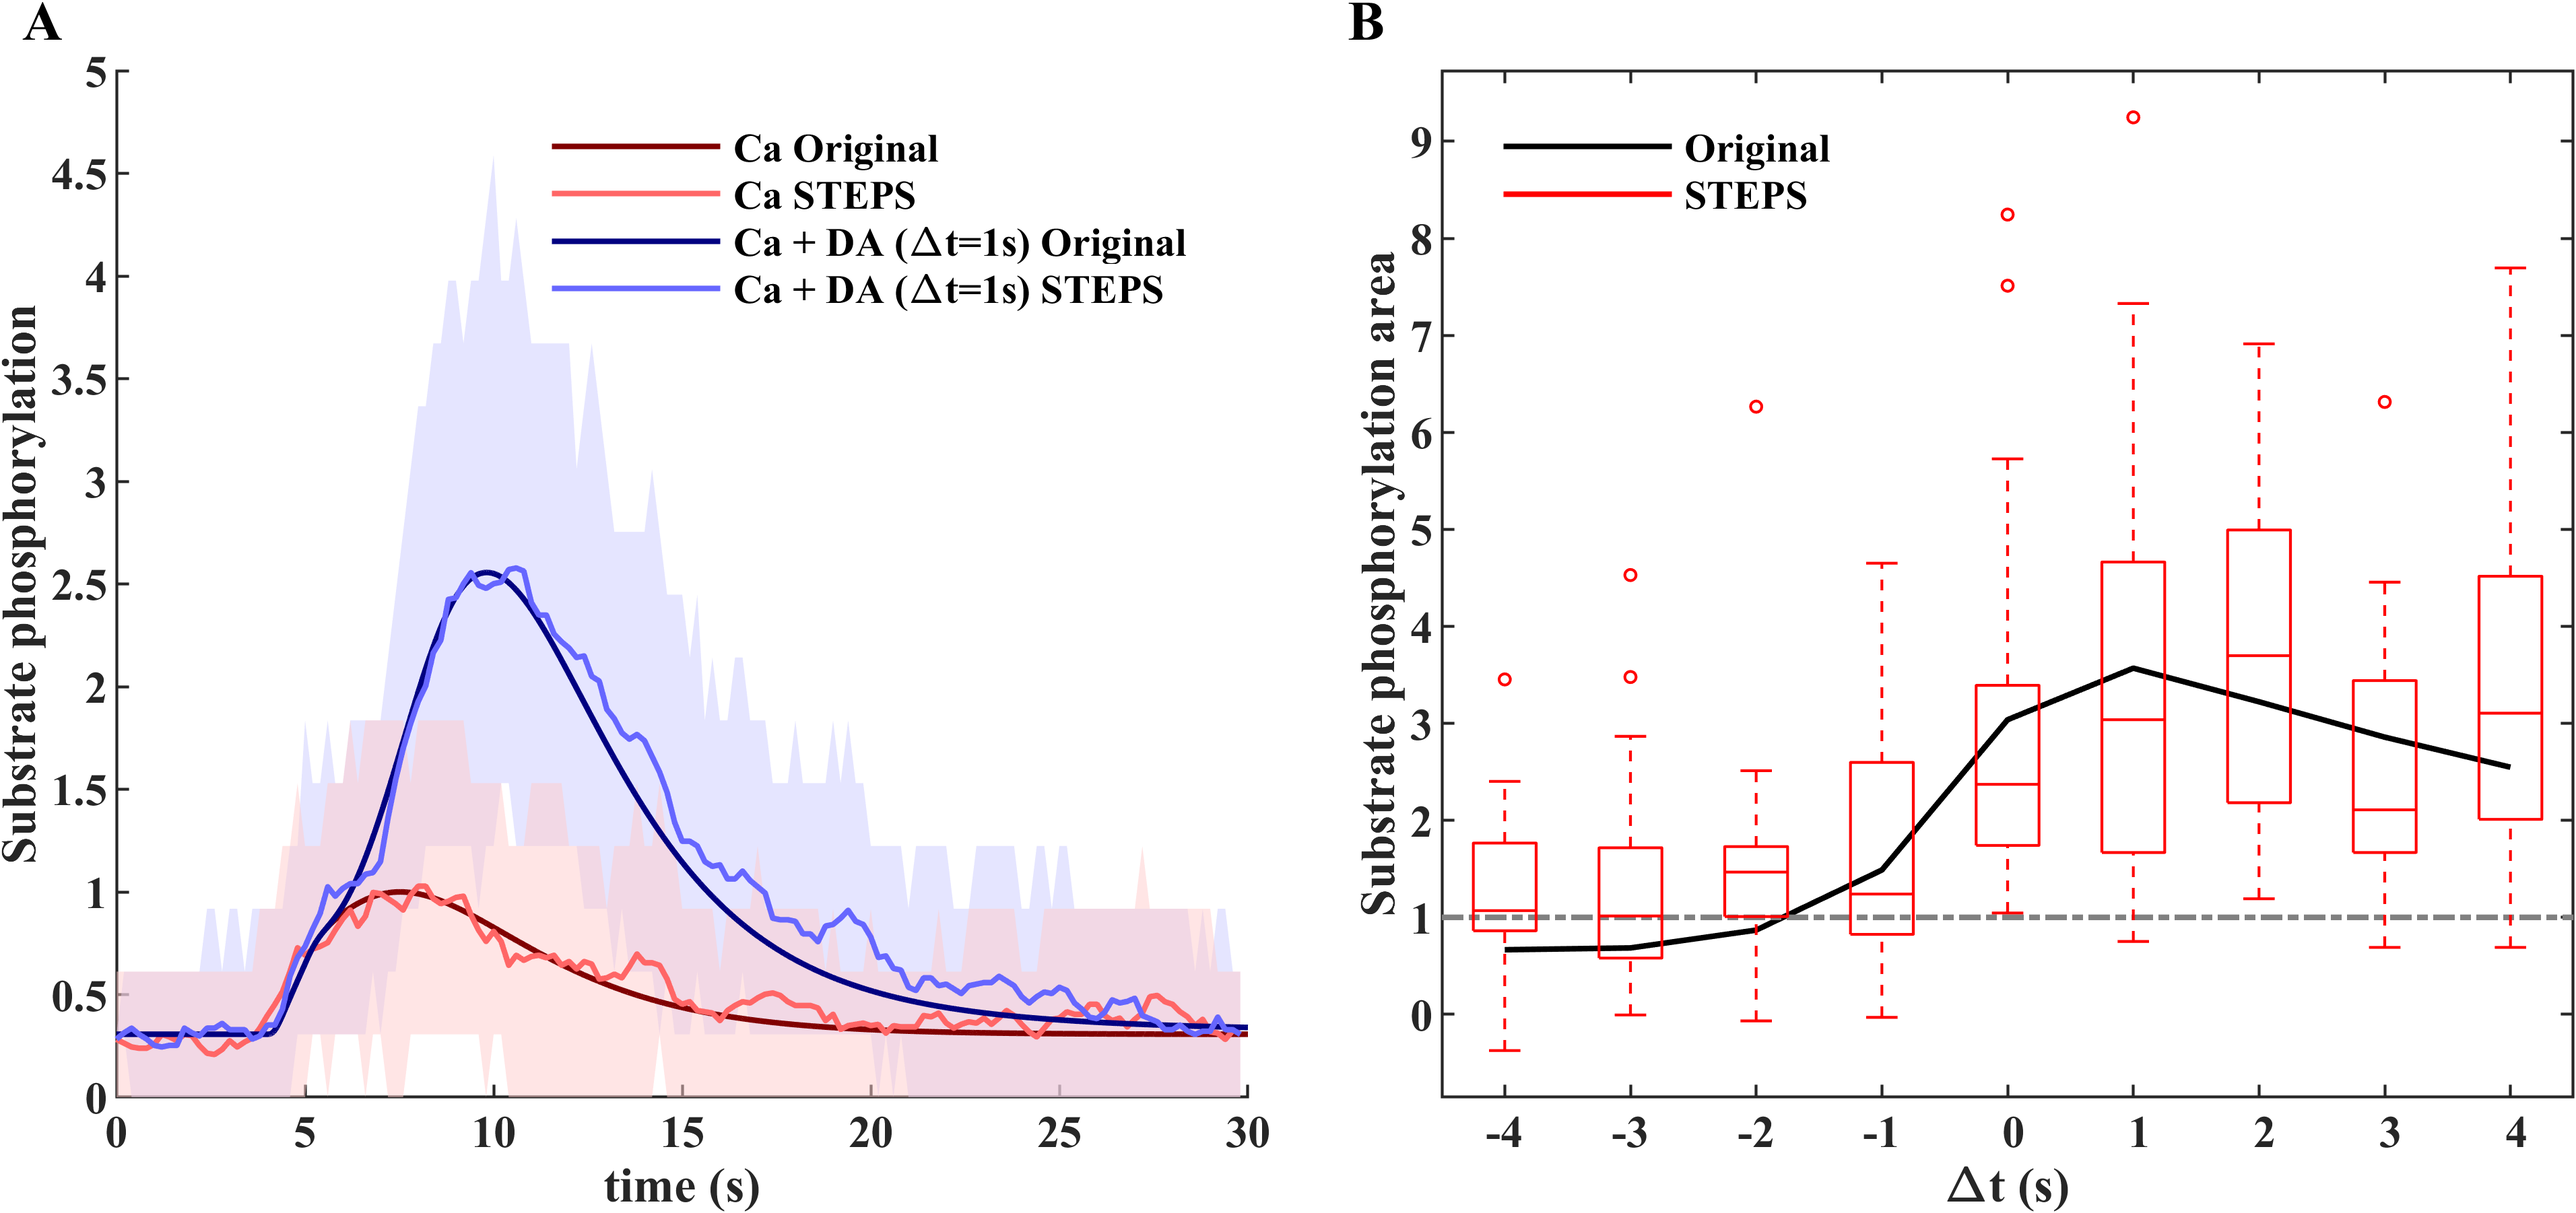
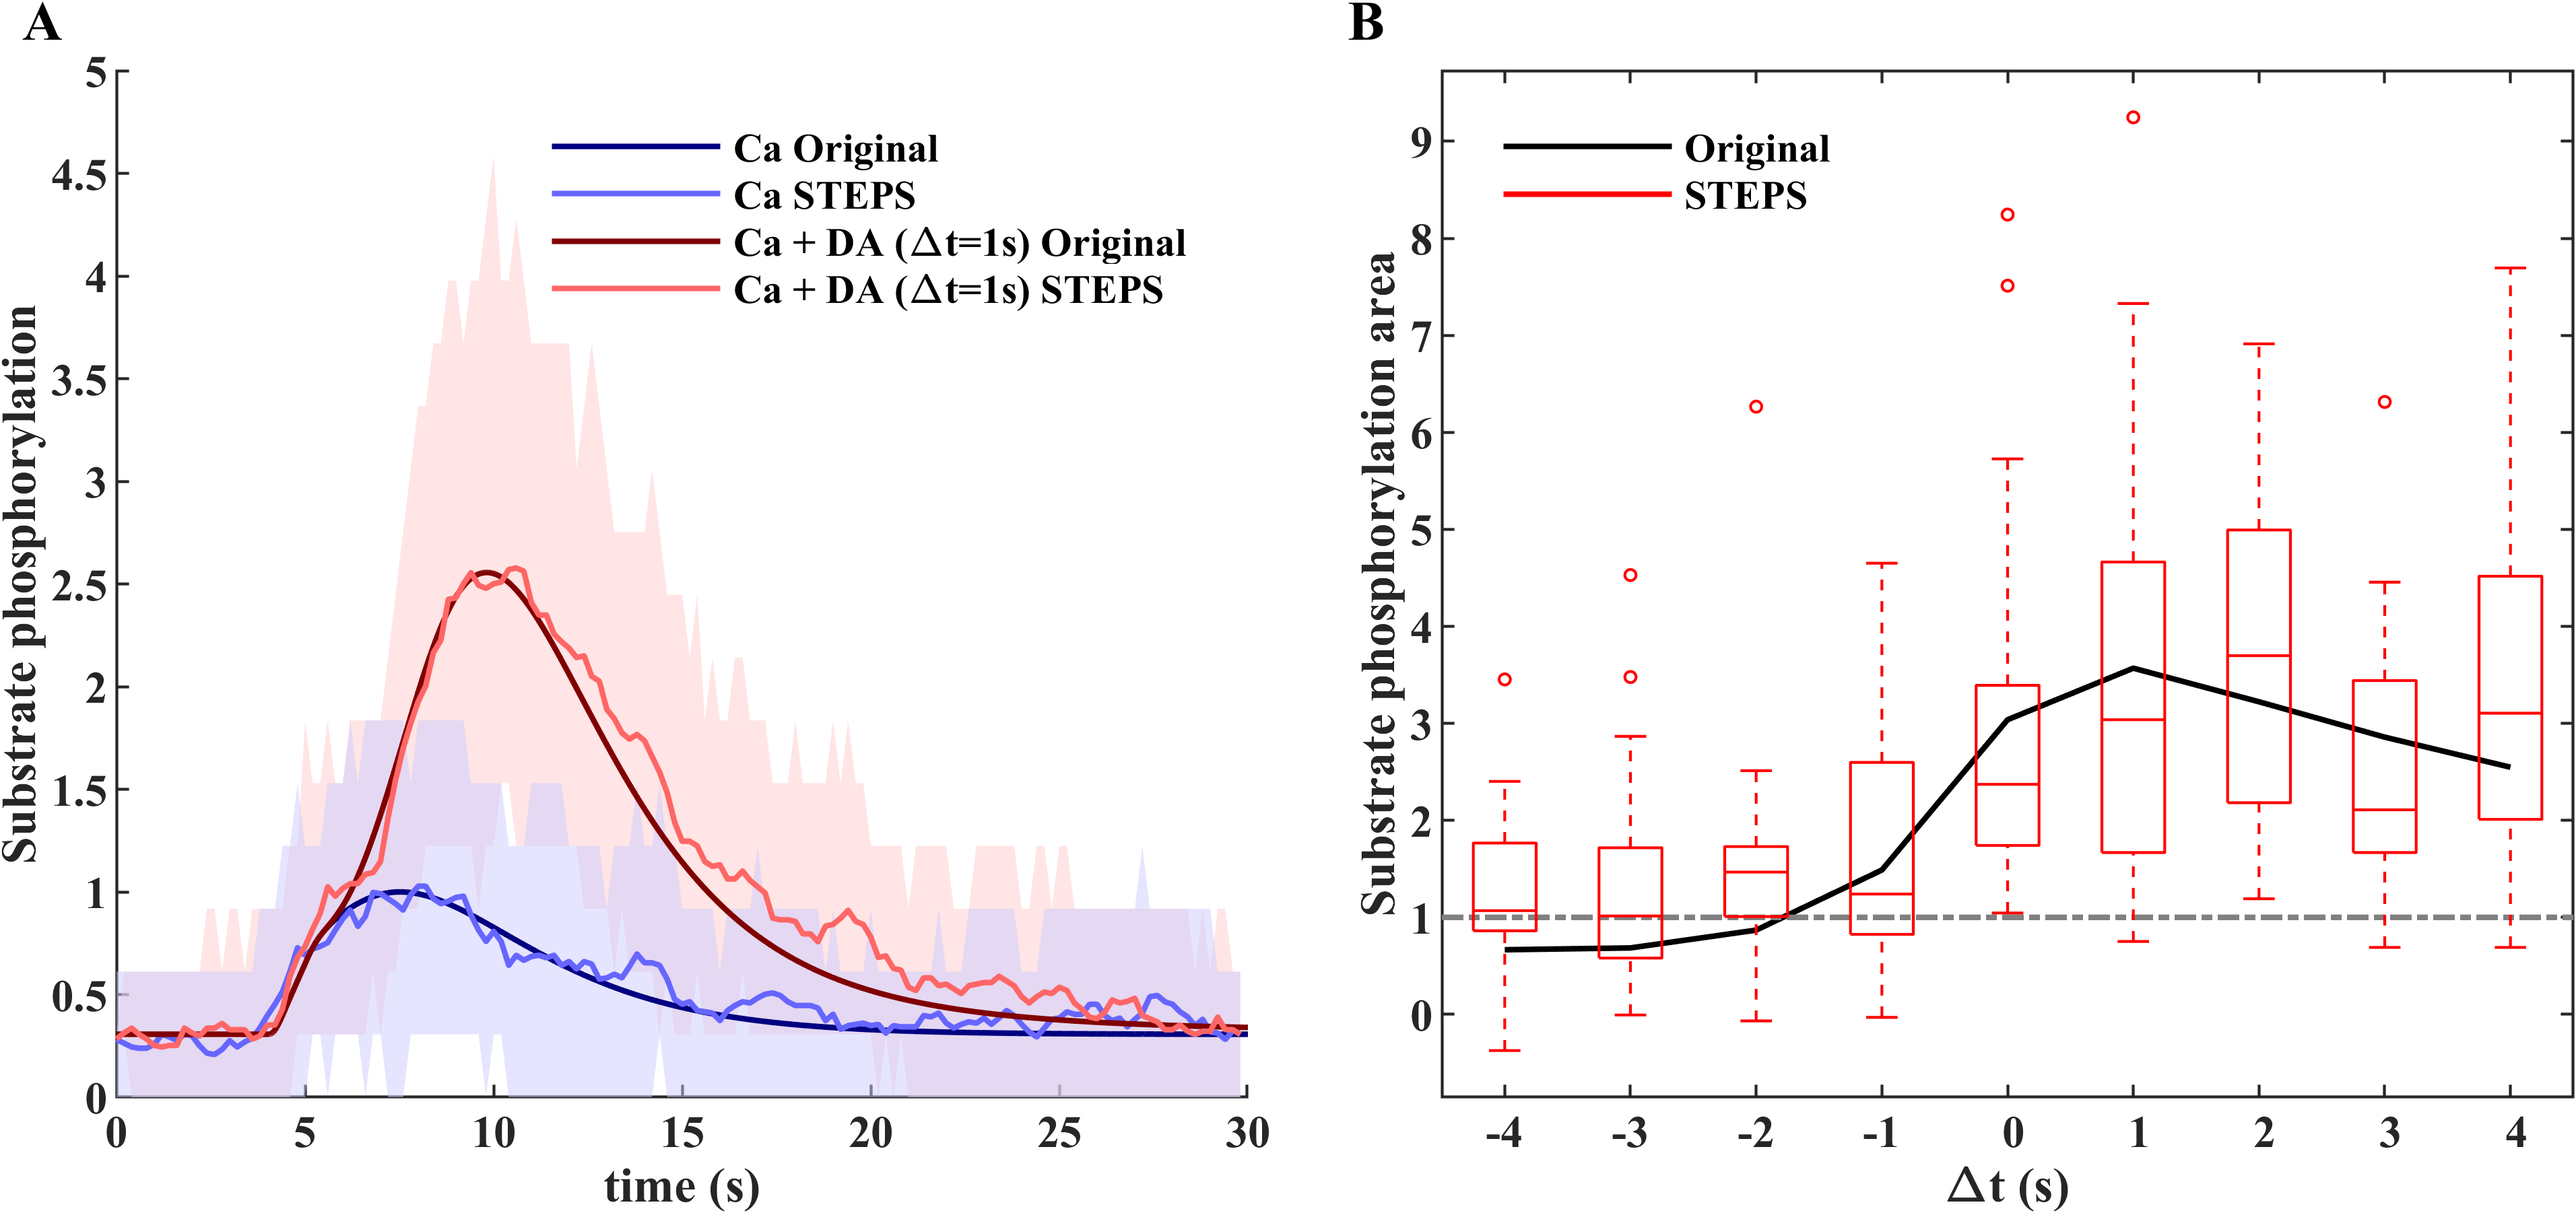
switched colours in figure 6a to improve consistency

Changed region(s): [[0.0311, 0.1554, 0.4978, 0.9323], [0.2178, 0.0932, 0.28, 0.1243]]

diff --git a/BioNetGen and STEPS/Regenerate_figure_6/Regenerate_figure_6.m b/BioNetGen and STEPS/Regenerate_figure_6/Regenerate_figure_6.m
@@ -179,7 +179,7 @@ end
 cst_v2 = [cst_v2; zeros(DT*ntrain-size(cst_v2,1), size(cst_v2,2))];
 cst2 = reshape(cst_v2(1:DT*ntrain,ii),DT,[]);
 tst2 = Tst_DA_v2{1:DT,'Time'};
-patch_error_plot(tst2'-tst2(1),cst2/max(x_noDA(:,1)),[0.1,0.9],[0.8,0.8, 1.0],0.5)
+patch_error_plot(tst2'-tst2(1),cst2/max(x_noDA(:,1)),[0.1,0.9],[1.0,0.8, 0.8],0.5)
 
 %nonzn=Tstn{:,'Obs_CaMKII'}>0;
 %plot(Tstn{nonzn,'Time'}-100, cstn(nonzn,1)/max(x_noDA(:,1)), 'LineWidth', 1,'Color',[0.7,0.7, 0.7])
@@ -202,11 +202,11 @@ cstn_v2 = [cstn_v2; zeros(DT*ntrain-size(cstn_v2,1), size(cstn_v2,2))];
 cst2 = reshape(cstn_v2(1:DT*ntrain,ii),DT,[]);
 cst2_noDA_v2 = cst2;
 tst2 = Tst_noDA_v2{1:DT,'Time'};
-patch_error_plot(tst2'-tst2(1),cst2/max(x_noDA(:,1)),[0.1,0.9],[1.0,0.8, 0.8],0.5)
+patch_error_plot(tst2'-tst2(1),cst2/max(x_noDA(:,1)),[0.1,0.9],[0.8,0.8, 1.0],0.5)
 
 
 
-plot(t_noDA, x_noDA(:,1)/max(x_noDA(:,1)), '-','Color',[0.5,0, 0], 'LineWidth', 1)
+plot(t_noDA, x_noDA(:,1)/max(x_noDA(:,1)), '-','Color',[0,0, 0.5], 'LineWidth', 1)
 
 ii = 1;
 %nonzn=Tstn{:,'Obs_CaMKII'}>0;
@@ -230,11 +230,11 @@ cstn_v2 = [cstn_v2; zeros(DT*ntrain-size(cstn_v2,1), size(cstn_v2,2))];
 cst2 = reshape(cstn_v2(1:DT*ntrain,ii),DT,[]);
 cst2_noDA_v2 = cst2;
 tst2 = Tst_noDA_v2{1:DT,'Time'};
-plot(tst2-tst2(1), mean(cst2,2)/max(x_noDA(:,1)), '-', 'LineWidth', 1,'Color',[1.0,0.4, 0.4])
+plot(tst2-tst2(1), mean(cst2,2)/max(x_noDA(:,1)), '-', 'LineWidth', 1,'Color',[0.4,0.4, 1.0])
 
 
 
-plot(t_DA, x_DA(:,ii)/max(x_noDA(:,1)),'Color',[0,0, 0.5], 'LineWidth', 1)
+plot(t_DA, x_DA(:,ii)/max(x_noDA(:,1)),'Color',[0.5,0, 0], 'LineWidth', 1)
 
 
 ntrain=40;
@@ -251,7 +251,7 @@ end
 cst_v2 = [cst_v2; zeros(DT*ntrain-size(cst_v2,1), size(cst_v2,2))];
 cst2 = reshape(cst_v2(1:DT*ntrain,ii),DT,[]);
 tst2 = Tst_DA_v2{1:DT,'Time'};
-plot(tst2-tst2(1), mean(cst2,2)/max(x_noDA(:,1)), '-', 'LineWidth', 1,'Color',[0.4,0.4, 1.0])
+plot(tst2-tst2(1), mean(cst2,2)/max(x_noDA(:,1)), '-', 'LineWidth', 1,'Color',[1.0,0.4, 0.4])
 text(-2.5,5.25,'A','FontWeight','bold')
 
 
